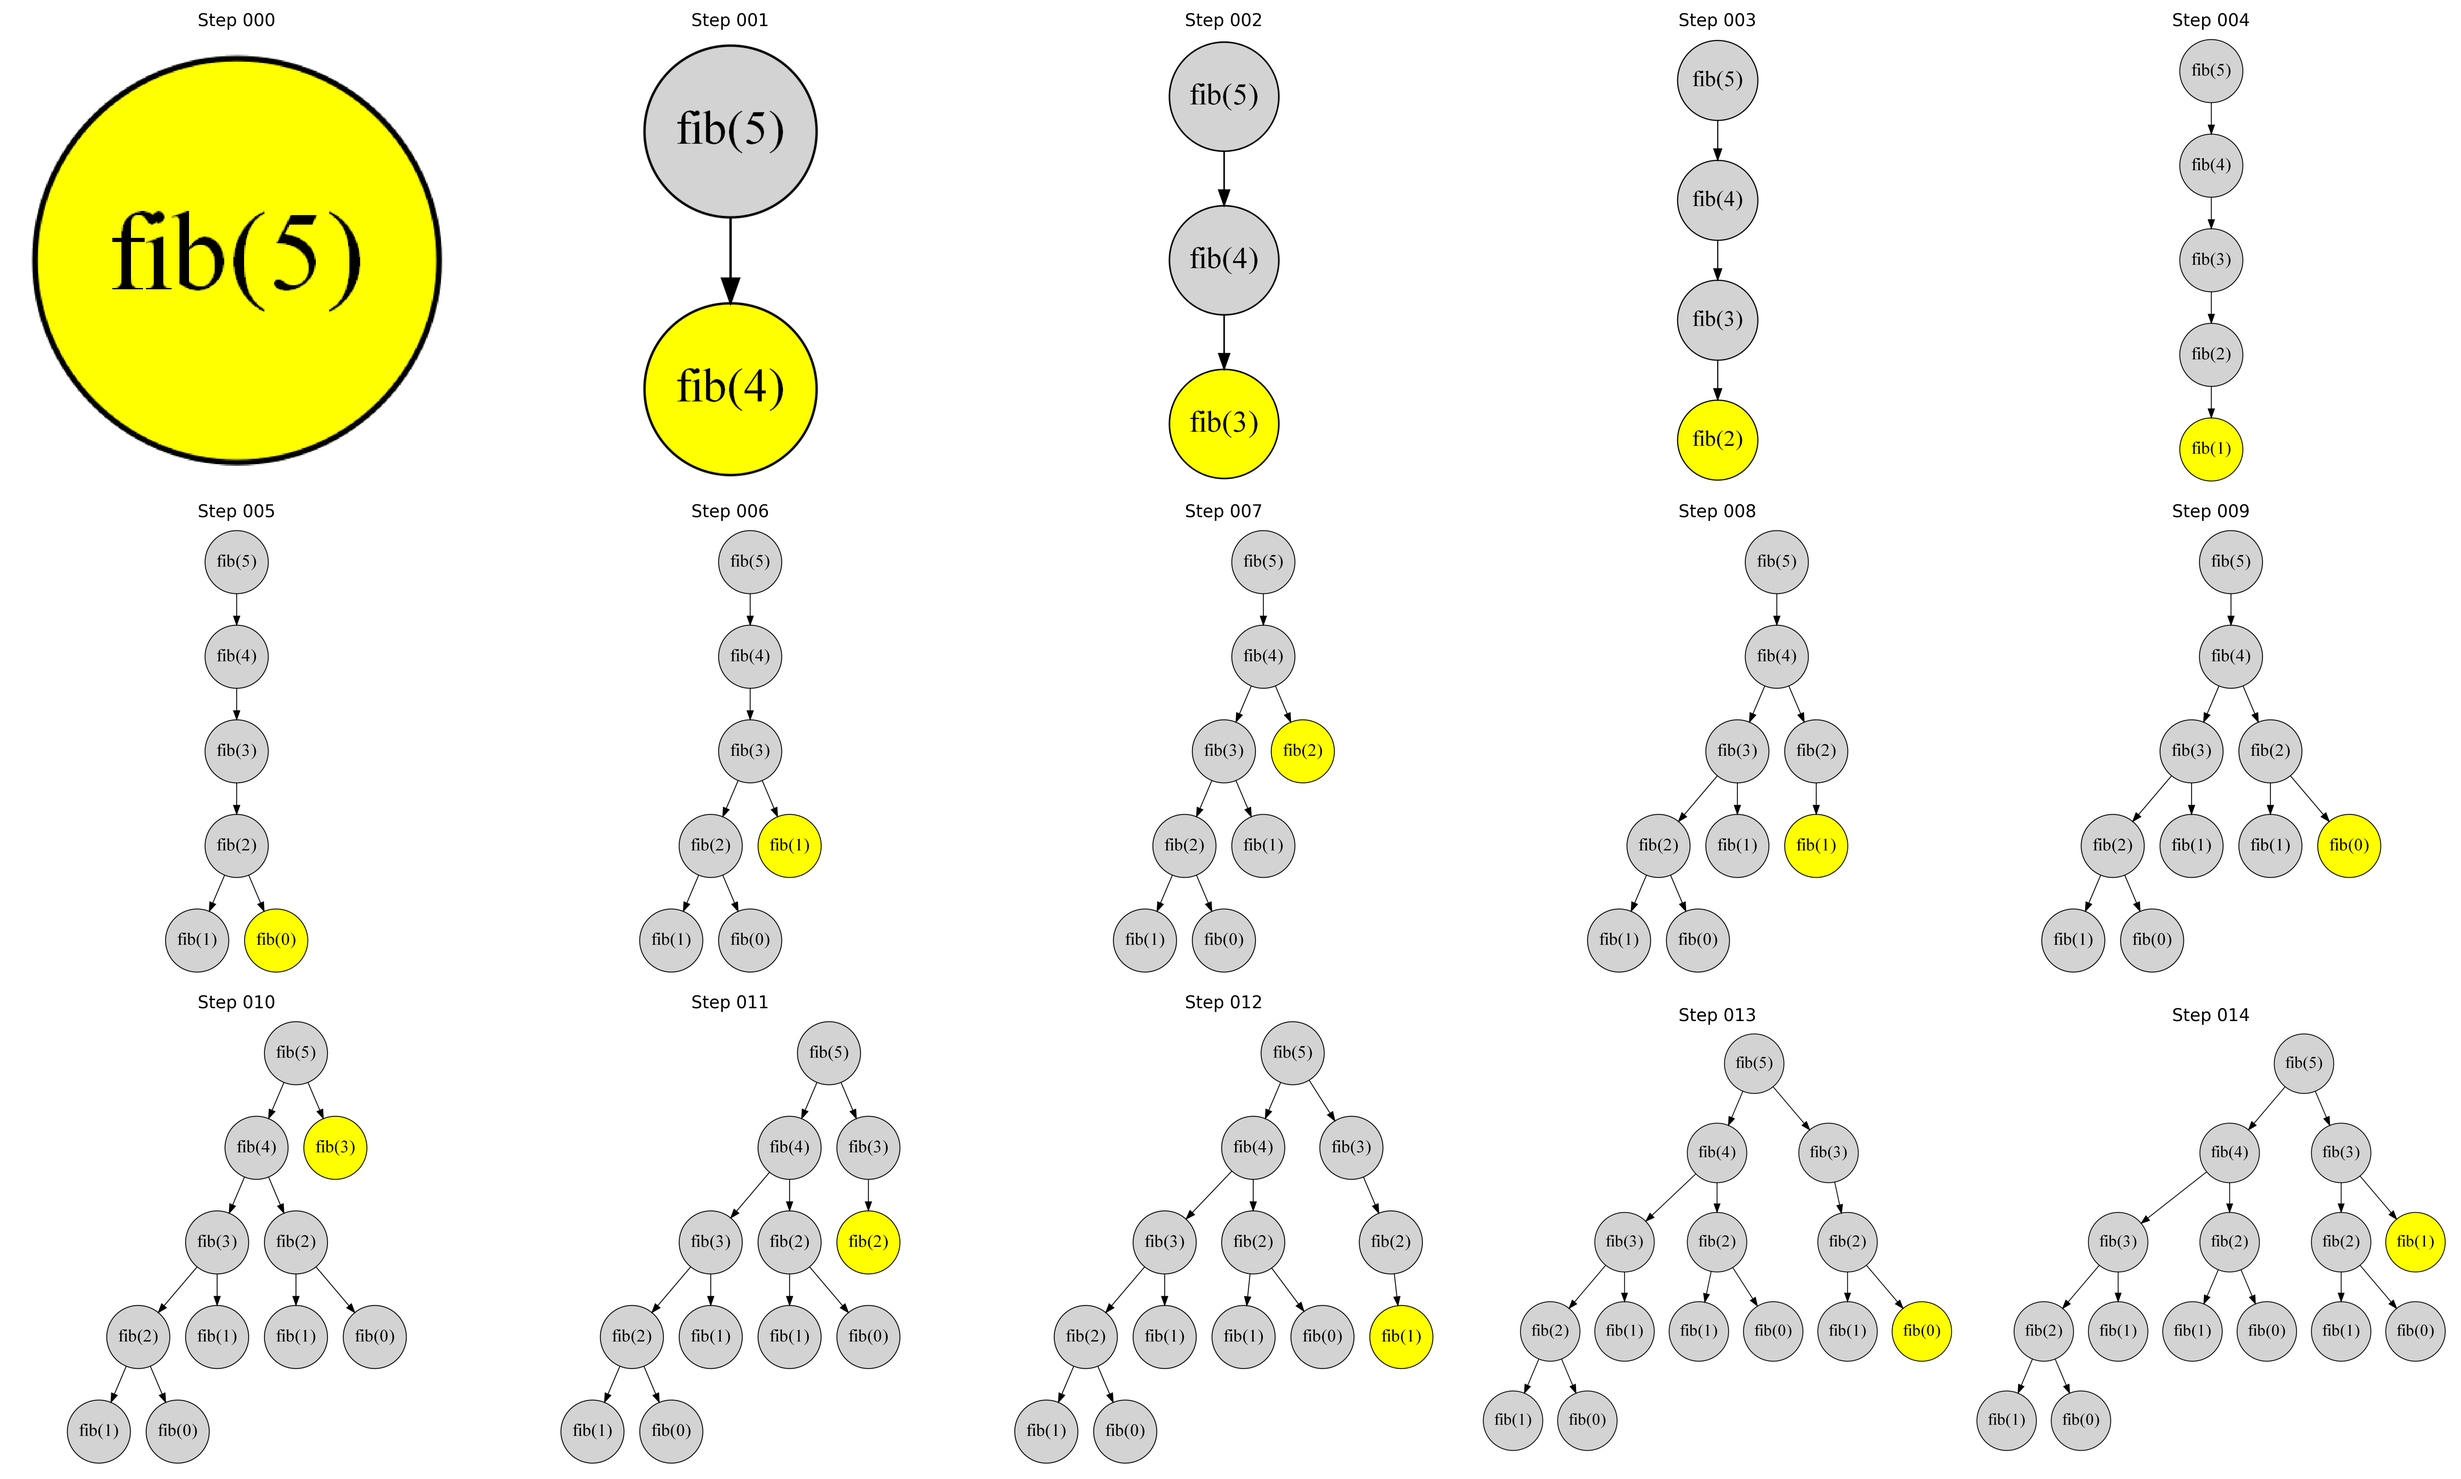
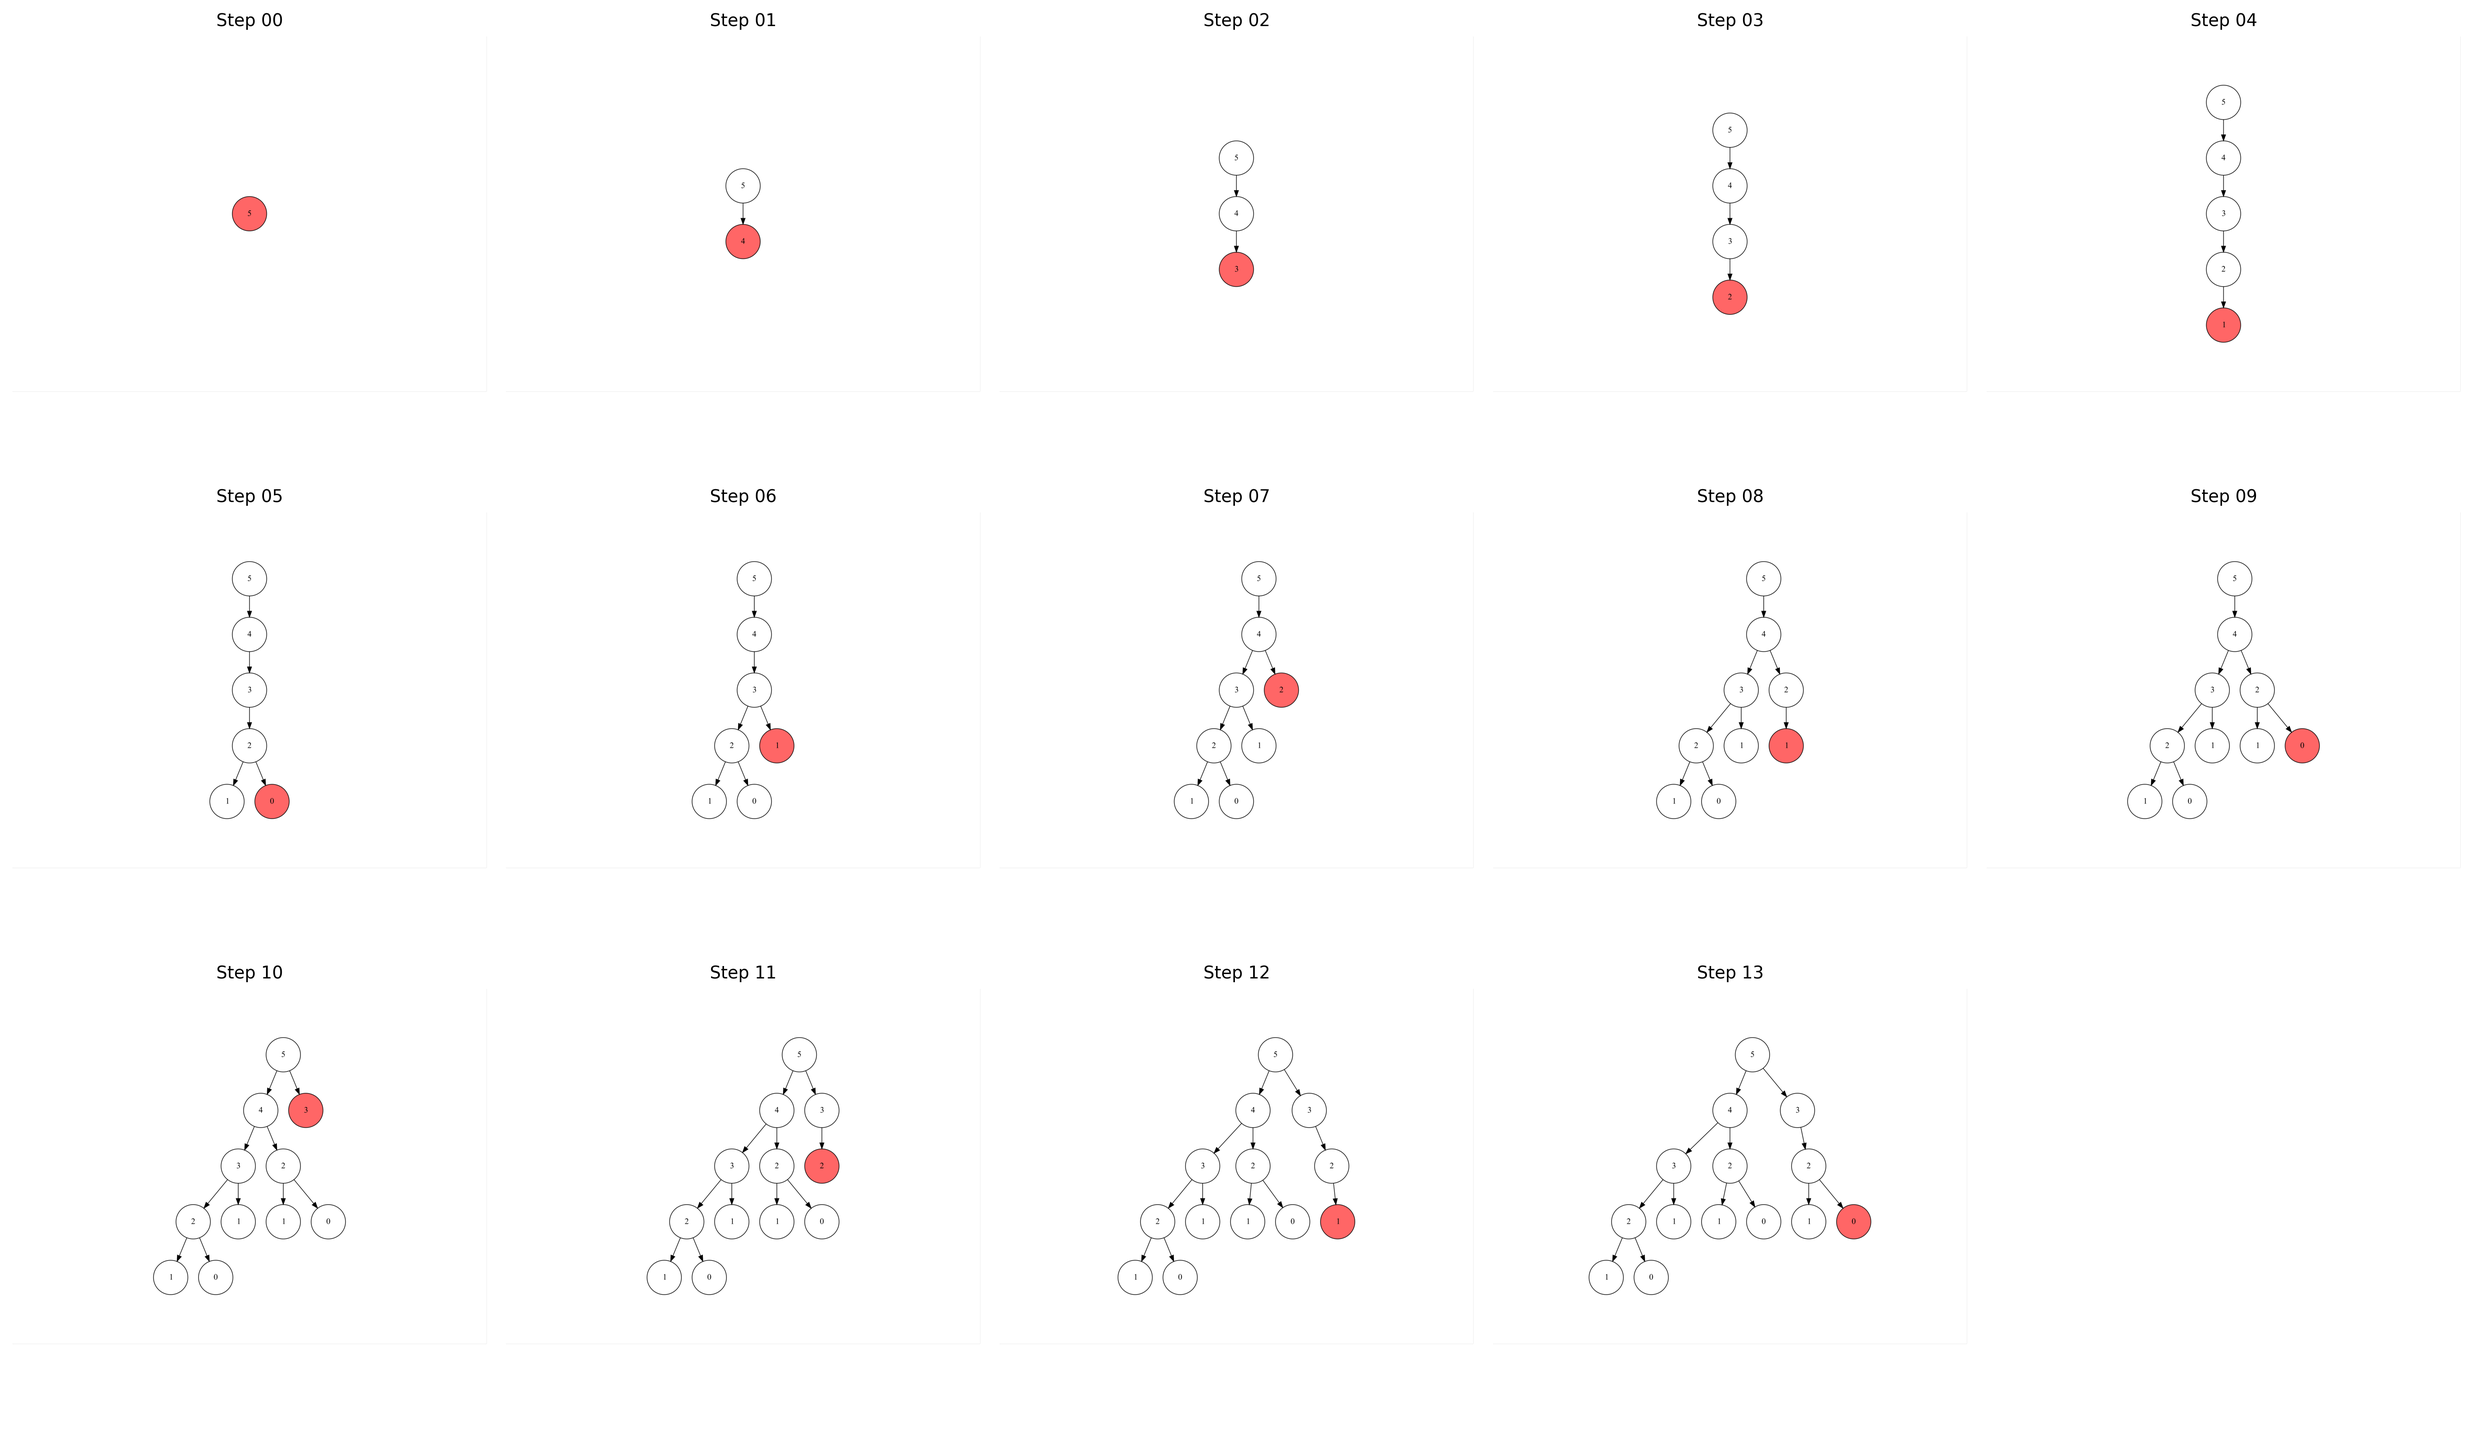
init

diff --git a/recursion-tree-animation/png/compine-images.py b/recursion-tree-animation/png/compine-images.py
@@ -5,7 +5,7 @@ import os
 
 def combine_recursion_frames():
     # List of frame filenames
-    frame_files = [f'frame_{i:03d}.png' for i in range(15)]
+    frame_files = [f'step_{i:02d}.png' for i in range(15)]
     
     # Check which files exist
     existing_frames = []
@@ -48,7 +48,7 @@ def combine_recursion_frames():
         try:
             img = mpimg.imread(frame_file)
             axes[i].imshow(img)
-            axes[i].set_title(f'Step {i:03d}', fontsize=10)
+            axes[i].set_title(f'Step {i:02d}', fontsize=10)
             axes[i].axis('off')  # Remove axis ticks and labels
         except Exception as e:
             print(f"Error loading {frame_file}: {e}")
@@ -69,7 +69,7 @@ def combine_recursion_frames():
     print(f"Combined image saved as: {output_filename}")
     
     # Show the plot
-    plt.show()
+    #plt.show()
 
 if __name__ == "__main__":
     combine_recursion_frames()

diff --git a/recursion-tree/GraphService.java b/recursion-tree/GraphService.java
@@ -80,6 +80,7 @@ public class GraphService {
         try {
             stepCounter++;
             Graphviz.fromGraph(graph)
+                    .scale(3)
                     .width(IMAGE_WIDTH)
                     .height(IMAGE_HEIGHT)
                     .render(Format.PNG)
